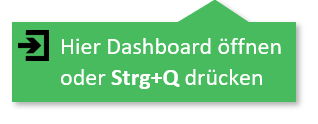
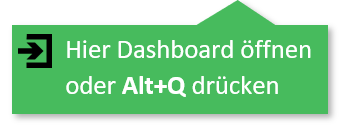
edited settings page and update instruction pictures; tested; finalized

Changed region(s): [[0.0283, 0.0, 0.9906, 0.9194], [0.1698, 0.5565, 0.8491, 0.75]]

diff --git a/settings.html b/settings.html
@@ -11,9 +11,9 @@
     <p id="welcome"></p> 
     <p id="settings_comment">Hier findest du alle Funktionen und Einstellungen <img style="vertical-align: text-bottom;height: 18px;object-fit: contain;" src='./icons/cog.png'/></p> 
     <!-- New Accordion section-->
-    <button class="accordion">Finde TU Dresden IT-Dienste schneller</button>
+    <button class="accordion">Abk&uuml;rzungen in der Google-Suche</button>
     <div class="panel">
-      <p><b>Abk&uuml;rzungen in der Google-Suche</b><br>
+      <p><b>Finde TU Dresden IT-Dienste schneller</b><br>
       Gib z.B. "tumail" in der Google-Suche ein, um direkt zur Outlook-Web-App zu kommen.</p>
       <p>Aus 
         <label class="switch">
@@ -33,29 +33,13 @@
         </ul>
     </p> 
   </div> 
-  <!-- New Accordion section-->
-  <button class="accordion">Shortcuts</button>
-  <div class="panel">
-    <p><b>Nutze Tastenkombinationen f&uuml;r  Dashboard und Websiten</b><br>
-    <a href="javascript:void(0)" id="open_shortcut_settings" >Hier</a> kannst du alle Shortcuts sehen und &Auml;ndern.</p>
-    <p class="grey-text">Standardkonfiguration:
-    <ul style="margin:0;">
-      <li class="grey-text">Alt+Q &rarr; Dashboard &ouml;ffnen</li>
-      <li class="grey-text">Alt+O &rarr; Opal &ouml;ffnen</li>
-      <li class="grey-text">Alt+M &rarr; Mail (Outlook-Web-App) &ouml;ffnen</li>
-      <li class="grey-text">Alt+J  &rarr; jExam &ouml;ffnen</li>
-    </ul>
-    </p> 
-    <p>
-    </p> 
-</div> 
    <!-- New Accordion section-->
-   <button class="accordion">Spare Zeit beim Zugriff auf Opal-Kurse</button>
+   <button class="accordion">Opal-Kurse im Dashboard</button>
    <div class="panel">
      <!--p>Klicke auf das TUDresdenAutoLogin Symbol <img  style="vertical-align:middle; height: 25px;" src="./images/autologin32.png"> oben rechts, um das Dashboard zu &ouml;ffnen.</p-->
      <!--p style="line-height: 18px;">Welche deiner Opal-Kurse m&ouml;chtest du im Dashboard sehen?<br-->
-     <p><b>Im Dashbaord greifst du auf deine Opal-Kurse und wichtige Links zu<br></b>
-    &Ouml;ffne das Dashbaord oben rechts oder <b>dr&uuml;cke Alt+Q</b> (<a href="javascript:void(0)" id="open_shortcut_settings" >&auml;ndern</a>)<br>
+     <p><b>Im Dashbaord auf wichtige Links und Opal-Kurse zugreifen<br></b>
+    &Ouml;ffne das Dashbaord oben rechts oder mit<b> Alt+Q</b> (<a href="javascript:void(0)" id="open_shortcut_settings" >&auml;ndern</a>)<br>
        <!--font class="grey-text">Um einen Kurs im Dashboard zu sehen, musst du im Opal eingeschrieben sein oder ihn als Favorit hinzuf&uuml;gen.</font--> 
      </p> 
        
@@ -74,7 +58,7 @@
        <img  style="max-width: 100%; width: 550px; border: 2px solid #eee; padding: 5px; border-radius: 2px;" src="./images/DashboardTutorialBig.png">
      </p>
      <p><b>F&uuml;r Power-User &#9889&#9889&#9889</b><br>
-       <font class="">&Ouml;ffne dein Dashboard und beginne direkt zu tippen. Wenn du dann Enter dr&uuml;ckst, wird der erste Kurs aus der Liste ge&ouml;ffnet.</font> <br>
+       <font class="">&Ouml;ffne dein Dashboard mit Alt+Q und beginne direkt zu tippen. Wenn du dann Enter dr&uuml;ckst, wird der erste Kurs aus der Liste ge&ouml;ffnet.</font> <br>
      </p>
      <!--p>
        <text class="grey-text">Hier kannst du deine Kurse manuell aktualisieren:</text><br>
@@ -83,6 +67,22 @@
      </p-->
      <p></p>
    </div>
+    <!-- New Accordion section-->
+  <button class="accordion">Shortcuts f&uuml;r Opal & Co.</button>
+  <div class="panel">
+    <p><b>Mit Tastenkombinationen das Dashboard oder Websiten schneller &ouml;ffnen</b><br>
+    <a href="javascript:void(0)" id="open_shortcut_settings" >Hier</a> kannst du alle Shortcuts sehen und &Auml;ndern.</p>
+    <p class="grey-text">Standardkonfiguration:
+    <ul style="margin:0;">
+      <li class="grey-text">Alt+Q &rarr; Dashboard &ouml;ffnen</li>
+      <li class="grey-text">Alt+O &rarr; Opal &ouml;ffnen</li>
+      <li class="grey-text">Alt+M &rarr; Mail (Outlook-Web-App) &ouml;ffnen</li>
+      <li class="grey-text">Alt+J  &rarr; jExam &ouml;ffnen</li>
+    </ul>
+    </p> 
+    <p>
+    </p> 
+</div> 
     <!-- New Accordion section--> 
     <button class="accordion" id="auto_login_settings">Automatisches Anmelden in Opal, Selma & Co.</button>
     <div class="panel">
@@ -107,7 +107,7 @@
   <div class="panel">
     <!--p id='saved_time'></p--> 
     <p>Ein gesparter Klick = 3 Sekunden</p>
-    <p>Eine automatische Anmeldung = 3 gesparte Klicks<br>Einen Kurs &uuml;ber Dashbaord aufrufen = 3 gesparte Klicks<br>Eine Weiterleitung der Google-Suche = 2 gesparte Klicks</p> 
+    <p>Einen Shortcut verwenden = 2 gesparte Klicks<br>Eine automatische Anmeldung = 3 gesparte Klicks<br>Einen Kurs &uuml;ber Dashbaord aufrufen = 3 gesparte Klicks<br>Eine Weiterleitung der Google-Suche = 2 gesparte Klicks</p> 
     <p style='margin-bottom:5px'><b>Dir gef&auml;llt TUDresdenAutoLogin?</b> </p> 
     <ul style="margin:0;">
       <li>Empfehle die Erweiterung einen Freund <font class="grey-text">(+100 Karma f&uuml;r den Tag)</font></li>
@@ -122,7 +122,7 @@
       <p>TUDresdenAutoLogin im <a href="https://chrome.google.com/webstore/detail/tu-dresden-auto-login/aheogihliekaafikeepfjngfegbnimbk?hl=de" target="_blank" class="" >Webstore</a>.</p>
       <p>Der Quelltext ist <a href="https://github.com/OliEfr/TUDresdenAutoLogin" target="_blank" class="" >Open Source</a>.</p>
       <p>Ich bin verpflichtet eine <a href="https://docs.google.com/document/d/1m3LCzlRMlEUR_TbMgP7Ha7MA7jN9mJ6gfyRhCRfUxuM/edit?usp=sharing" target="_blank" class="" >Datenschutzerkl&auml;rung</a> zu ver&ouml;ffentlichen</p>
-      <p>Fragen, Meinungen, Einspr&uuml;che, Zuspr&uuml;che, Muster, Beispiele oder &auml;hnliches? <br>Mail an <a id="" href="mailto:ollidev97@gmail.com?Subject=Feedback TUDresdenAutoLogin">ollidev97@gmail.com</a>!</p>
+      <p>Fragen und Feedback gern an <a id="" href="mailto:ollidev97@gmail.com?Subject=Feedback TUDresdenAutoLogin">ollidev97@gmail.com</a> &#128578</p>
   </div> 
   </body>
 </html>

diff --git a/background.js b/background.js
@@ -133,12 +133,15 @@ chrome.commands.onCommand.addListener(function(command) {
   switch(command) {
     case 'open_opal_hotkey':
       chrome.tabs.update({ url: "https://bildungsportal.sachsen.de/opal/home/" })
+      save_clicks(2)
       break
     case 'open_owa_hotkey':
+      save_clicks(2)
       chrome.tabs.update({ url: "https://msx.tu-dresden.de/owa/" })
       break
     case 'open_jexam_hotkey':
       chrome.tabs.update({url: "https://jexam.inf.tu-dresden.de/"})
+      save_clicks(2)
     default:
       break
   }
